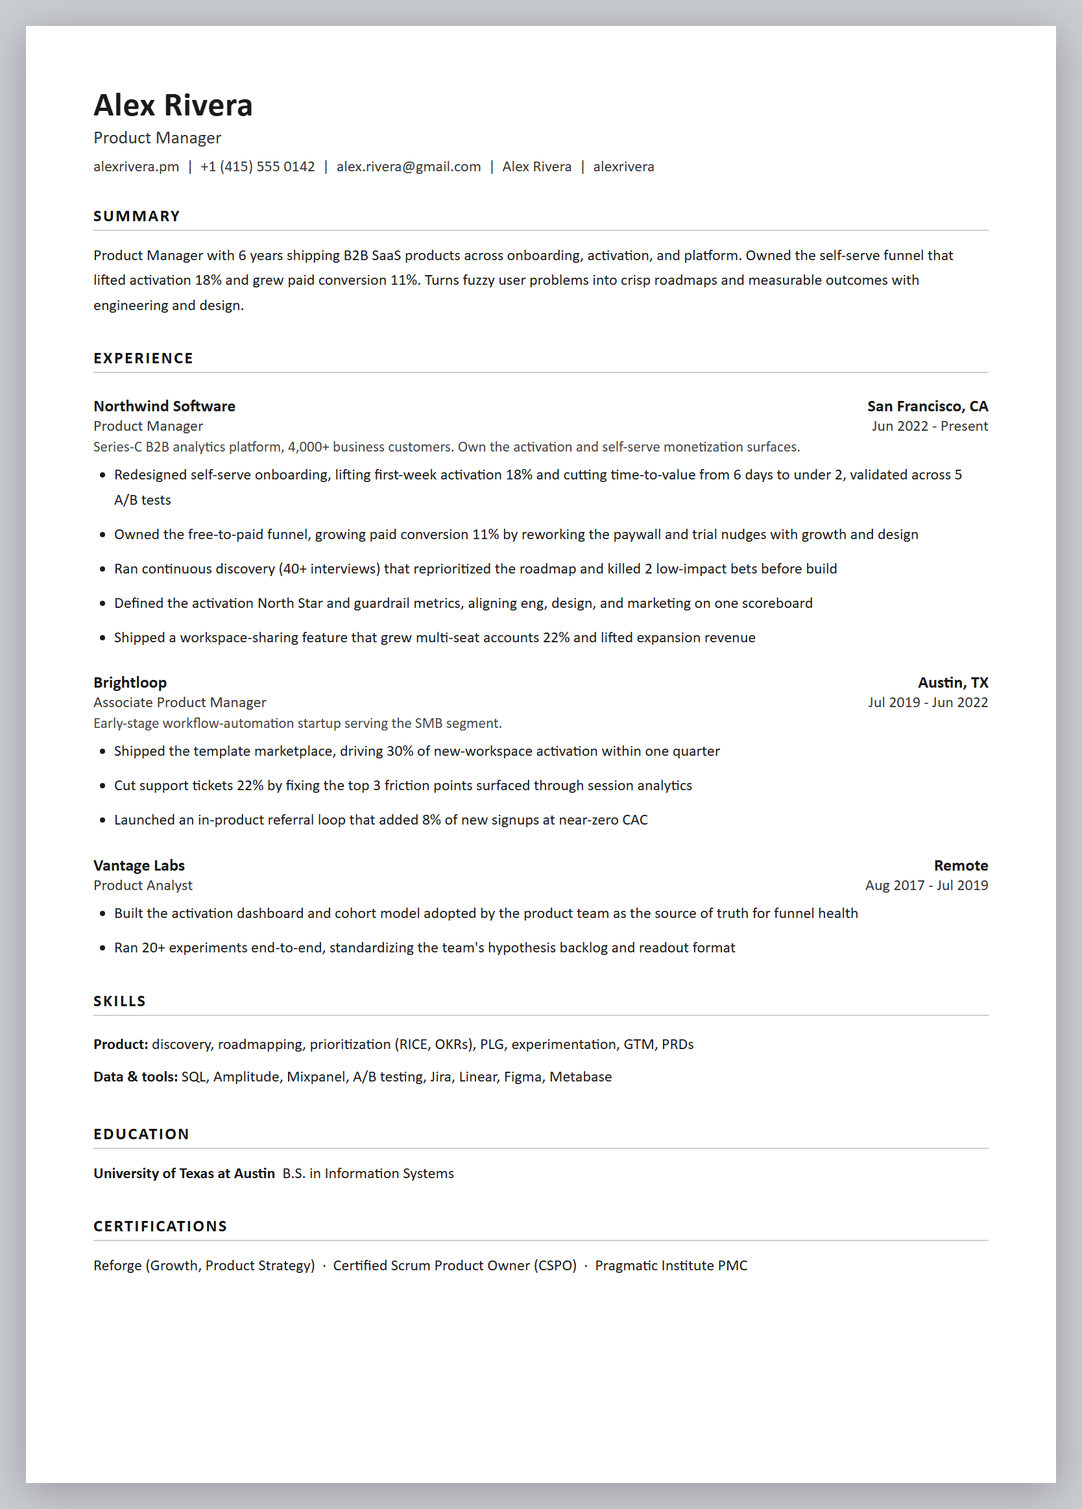
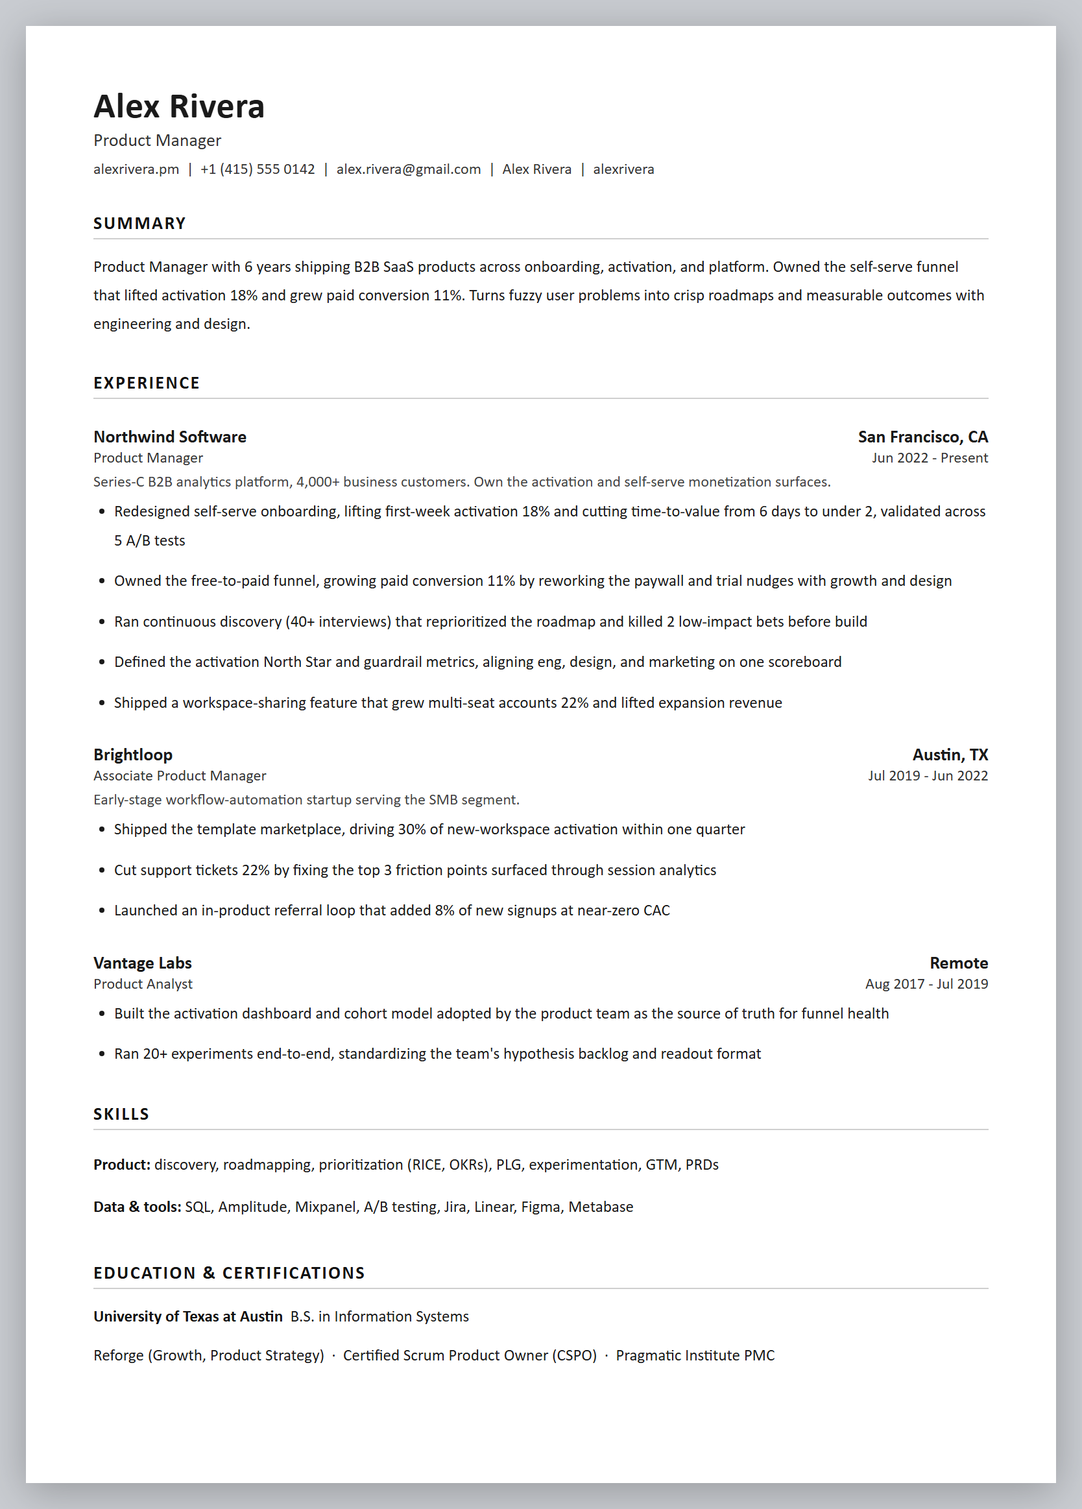
Fill all templates to full A4, add trigger phrases and MCP guide, add three ATS knowledge sources
Templates 02 to 05 now populate a full page like 01 Executive Serif.
README gains a Trigger phrases section and a Works with your MCPs section.
Adds r/EngineeringResumes, The Tech Resume Inside Out, and Tech Interview Handbook, reflected in the ATS and structure references.
Skill delivers both docx and pdf, verified with pdftotext.
Repackaged pm-resume-builder.skill. Expanded gitignore and added an examples README.

diff --git a/templates/03-growth-metrics/preview.html b/templates/03-growth-metrics/preview.html
@@ -2,18 +2,18 @@
 <style>
   body{margin:0;background:#c9ccd1;font-family:Calibri,'Segoe UI',Arial,sans-serif}
   .page{width:794px;height:1123px;margin:20px auto;background:#fff;padding:44px 52px;box-sizing:border-box;color:#1a1a1a;box-shadow:0 6px 30px rgba(0,0,0,.25);overflow:hidden}
-  .name{font-size:26px;font-weight:700}
+  .name{font-size:28px;font-weight:700}
   .title{font-size:14px;color:#333;margin-top:1px}
   .contact{font-size:12px;color:#333;margin-top:6px}
-  h2{font-size:13px;font-weight:700;text-transform:uppercase;letter-spacing:1.2px;margin:23px 0 9px;border-bottom:1px solid #cfcfcf;padding-bottom:3px;color:#111}
-  p.sum{font-size:12px;line-height:1.6;margin:7px 0}
-  .impact{font-size:13px;font-weight:700;color:#0b7a52;line-height:2.0;margin:4px 0}
-  .role{display:flex;justify-content:space-between;font-size:13px;font-weight:700;margin-top:17px}
+  h2{font-size:14px;font-weight:700;text-transform:uppercase;letter-spacing:1.2px;margin:26px 0 10px;border-bottom:1px solid #cfcfcf;padding-bottom:3px;color:#111}
+  p.sum{font-size:12.5px;line-height:1.75;margin:8px 0}
+  .impact{font-size:14px;font-weight:700;color:#0b7a52;line-height:2.5;margin:6px 0}
+  .role{display:flex;justify-content:space-between;font-size:14px;font-weight:700;margin-top:20px}
   .sub{display:flex;justify-content:space-between;font-size:12px;color:#333}
-  .ctx{font-size:11.5px;color:#444;margin:2px 0}
+  .ctx{font-size:12px;color:#444;margin:4px 0}
   ul{margin:5px 0 0;padding-left:16px}
-  li{font-size:12px;line-height:1.62;margin-bottom:7px}
-  .sk{font-size:12px;line-height:2.1}
+  li{font-size:12.5px;line-height:1.78;margin-bottom:9px}
+  .sk{font-size:12.5px;line-height:2.6}
   b{color:#111}
 </style>
 <div class="page">
@@ -56,6 +56,7 @@
   <div class="sk"><b>Growth &amp; data:</b> A/B testing, SQL, funnel &amp; cohort analysis, Amplitude, Mixpanel, activation, retention, CAC, LTV<br>
   <b>Product:</b> PLG, experimentation, roadmapping, discovery, OKRs, pricing</div>
 
-  <h2>Education</h2>
+  <h2>Education &amp; Certifications</h2>
   <p class="sum"><b>University of Texas at Austin</b>&nbsp; B.S. in Information Systems</p>
+  <p class="sum">Reforge (Growth Series, Experimentation)&nbsp; ·&nbsp; CXL Growth Marketing Minidegree&nbsp; ·&nbsp; Certified Scrum Product Owner (CSPO)</p>
 </div>

diff --git a/templates/02-modern-minimal/preview.html b/templates/02-modern-minimal/preview.html
@@ -2,17 +2,17 @@
 <style>
   body{margin:0;background:#c9ccd1;font-family:Calibri,'Segoe UI',Arial,sans-serif}
   .page{width:794px;height:1123px;margin:20px auto;background:#fff;padding:44px 52px;box-sizing:border-box;color:#1a1a1a;box-shadow:0 6px 30px rgba(0,0,0,.25);overflow:hidden}
-  .name{font-size:26px;font-weight:700;letter-spacing:.3px}
+  .name{font-size:28px;font-weight:700;letter-spacing:.3px}
   .title{font-size:14px;color:#333;margin-top:1px}
   .contact{font-size:12px;color:#333;margin-top:6px}
-  h2{font-size:13px;font-weight:700;text-transform:uppercase;letter-spacing:1.2px;margin:23px 0 9px;border-bottom:1px solid #cfcfcf;padding-bottom:3px;color:#111}
-  p.sum{font-size:12px;line-height:1.6;margin:7px 0}
-  .role{display:flex;justify-content:space-between;font-size:13px;font-weight:700;margin-top:17px}
+  h2{font-size:14px;font-weight:700;text-transform:uppercase;letter-spacing:1.2px;margin:26px 0 10px;border-bottom:1px solid #cfcfcf;padding-bottom:3px;color:#111}
+  p.sum{font-size:12.5px;line-height:1.75;margin:8px 0}
+  .role{display:flex;justify-content:space-between;font-size:14px;font-weight:700;margin-top:20px}
   .sub{display:flex;justify-content:space-between;font-size:12px;color:#333}
-  .ctx{font-size:11.5px;color:#444;margin:2px 0}
+  .ctx{font-size:12px;color:#444;margin:4px 0}
   ul{margin:5px 0 0;padding-left:16px}
-  li{font-size:12px;line-height:1.62;margin-bottom:7px}
-  .sk{font-size:12px;line-height:2.1}
+  li{font-size:12.5px;line-height:1.78;margin-bottom:9px}
+  .sk{font-size:12.5px;line-height:2.6}
   b{color:#111}
 </style>
 <div class="page">
@@ -53,9 +53,7 @@
   <div class="sk"><b>Product:</b> discovery, roadmapping, prioritization (RICE, OKRs), PLG, experimentation, GTM, PRDs<br>
   <b>Data &amp; tools:</b> SQL, Amplitude, Mixpanel, A/B testing, Jira, Linear, Figma, Metabase</div>
 
-  <h2>Education</h2>
+  <h2>Education &amp; Certifications</h2>
   <p class="sum"><b>University of Texas at Austin</b>&nbsp; B.S. in Information Systems</p>
-
-  <h2>Certifications</h2>
   <p class="sum">Reforge (Growth, Product Strategy)&nbsp; ·&nbsp; Certified Scrum Product Owner (CSPO)&nbsp; ·&nbsp; Pragmatic Institute PMC</p>
 </div>

diff --git a/templates/05-associate-onepager/preview.html b/templates/05-associate-onepager/preview.html
@@ -2,15 +2,15 @@
 <style>
   body{margin:0;background:#c9ccd1;font-family:Calibri,'Segoe UI',Arial,sans-serif}
   .page{width:794px;height:1123px;margin:20px auto;background:#fff;padding:44px 52px;box-sizing:border-box;color:#1a1a1a;box-shadow:0 6px 30px rgba(0,0,0,.25);overflow:hidden}
-  .name{font-size:25px;font-weight:700}
+  .name{font-size:28px;font-weight:700}
   .title{font-size:13.5px;color:#333;margin-top:1px}
   .contact{font-size:12px;color:#333;margin-top:6px}
-  h2{font-size:13px;font-weight:700;text-transform:uppercase;letter-spacing:1.1px;margin:23px 0 9px;border-bottom:1px solid #cfcfcf;padding-bottom:3px;color:#111}
-  p.sum{font-size:12px;line-height:1.6;margin:7px 0}
-  .role{display:flex;justify-content:space-between;font-size:12.5px;font-weight:700;margin-top:16px}
+  h2{font-size:14px;font-weight:700;text-transform:uppercase;letter-spacing:1.1px;margin:31px 0 11px;border-bottom:1px solid #cfcfcf;padding-bottom:3px;color:#111}
+  p.sum{font-size:12.5px;line-height:1.9;margin:9px 0}
+  .role{display:flex;justify-content:space-between;font-size:14px;font-weight:700;margin-top:26px}
   .sub{display:flex;justify-content:space-between;font-size:12px;color:#333}
   ul{margin:5px 0 0;padding-left:16px}
-  li{font-size:12px;line-height:1.62;margin-bottom:7px}
+  li{font-size:12.5px;line-height:1.9;margin-bottom:12px}
   b{color:#111}
 </style>
 <div class="page">
@@ -49,6 +49,12 @@
 
   <h2>Skills</h2>
   <p class="sum"><b>Product:</b> discovery, PRDs, prioritization, experimentation, roadmapping, user research&nbsp; ·&nbsp; <b>Data and tools:</b> SQL, Amplitude, Figma, Jira, Notion</p>
+
+  <h2>Leadership &amp; Community</h2>
+  <ul>
+    <li><b>Product Club, UW</b>&nbsp; led a 40 member club, ran a case-study series, and mentored 8 students into APM interviews</li>
+    <li><b>Hackathon organizer</b>&nbsp; ran a 150 person student hackathon, owning sponsorships, logistics, and judging</li>
+  </ul>
 
   <h2>Certifications</h2>
   <p class="sum">Google Project Management Certificate&nbsp; ·&nbsp; Reforge Product Foundations</p>

diff --git a/templates/04-ai-product/preview.html b/templates/04-ai-product/preview.html
@@ -2,18 +2,18 @@
 <style>
   body{margin:0;background:#c9ccd1;font-family:Calibri,'Segoe UI',Arial,sans-serif}
   .page{width:794px;height:1123px;margin:20px auto;background:#fff;padding:44px 52px;box-sizing:border-box;color:#1a1a1a;box-shadow:0 6px 30px rgba(0,0,0,.25);overflow:hidden}
-  .name{font-size:26px;font-weight:700}
+  .name{font-size:28px;font-weight:700}
   .title{font-size:14px;color:#333;margin-top:1px}
   .contact{font-size:12px;color:#333;margin-top:6px}
-  h2{font-size:13px;font-weight:700;text-transform:uppercase;letter-spacing:1.2px;margin:23px 0 9px;border-bottom:1px solid #cfcfcf;padding-bottom:3px;color:#111}
-  p.sum{font-size:12px;line-height:1.6;margin:7px 0}
-  .ai{font-size:12.5px;font-weight:700;color:#4b2ea8;line-height:1.6;margin:2px 0}
-  .role{display:flex;justify-content:space-between;font-size:13px;font-weight:700;margin-top:17px}
+  h2{font-size:14px;font-weight:700;text-transform:uppercase;letter-spacing:1.2px;margin:26px 0 10px;border-bottom:1px solid #cfcfcf;padding-bottom:3px;color:#111}
+  p.sum{font-size:12.5px;line-height:1.75;margin:8px 0}
+  .ai{font-size:13.5px;font-weight:700;color:#4b2ea8;line-height:2.1;margin:4px 0}
+  .role{display:flex;justify-content:space-between;font-size:14px;font-weight:700;margin-top:20px}
   .sub{display:flex;justify-content:space-between;font-size:12px;color:#333}
-  .ctx{font-size:11.5px;color:#444;margin:2px 0}
+  .ctx{font-size:12px;color:#444;margin:4px 0}
   ul{margin:5px 0 0;padding-left:16px}
-  li{font-size:12px;line-height:1.62;margin-bottom:7px}
-  .sk{font-size:12px;line-height:2.1}
+  li{font-size:12.5px;line-height:1.78;margin-bottom:9px}
+  .sk{font-size:12.5px;line-height:2.6}
   b{color:#111}
 </style>
 <div class="page">

diff --git a/README.md b/README.md
@@ -22,8 +22,10 @@ It reads your old CV, asks the right questions, and ships a sharp, recruiter gra
 
 - [What it does](#what-it-does)
 - [How it works](#how-it-works)
+- [Trigger phrases](#trigger-phrases)
 - [The 5 templates](#the-5-templates-all-ats-guaranteed)
 - [Install](#install)
+- [Works with your MCPs](#works-with-your-mcps)
 - [Documentation](#documentation)
 - [Knowledge sources](#knowledge-sources)
 - [CV key principles](#cv-key-principles)
@@ -70,6 +72,41 @@ The flow, in words:
 
 ---
 
+## Trigger phrases
+
+You do not need a special command. Once the skill is installed, Claude picks it up from plain language. Any of these will start it:
+
+**Build a new resume**
+- "Create my resume" or "Build my CV"
+- "Help me make a product manager resume"
+- "I need a PM resume from scratch"
+- "Turn my LinkedIn into a resume"
+
+**Improve an existing one**
+- "Optimize my resume" or "Improve my CV"
+- "Review my resume" or "Give me a resume review"
+- "What is weak in my resume?"
+- "Rewrite my bullets to show impact"
+
+**Pass the ATS**
+- "Make it ATS friendly"
+- "Will this pass an ATS?"
+- "Format my resume for applicant tracking systems"
+
+**Tailor to a role**
+- "Tailor my resume to this job description"
+- "Match my CV to this PM role"
+- "Help me apply for this job"
+
+**Other ways in**
+- "Help me get hired as a PM"
+- "Hoja de vida" or "Curriculum vitae"
+- Any mention of a job application together with resume or CV
+
+When more than one could apply, Claude asks a quick clarifying question before it starts.
+
+---
+
 ## The 5 templates (all ATS guaranteed)
 
 Every template is single column, standard font, text based, and graphics free, so it parses cleanly in Greenhouse, Workday, Lever, Ashby, iCIMS, and Taleo. "ATS guaranteed" means the exported PDF returns clean, ordered text via `pdftotext`, which the skill verifies on export.
@@ -100,6 +137,28 @@ Full walkthrough with all three methods and examples: **[docs/INSTALLATION.md](.
 
 ---
 
+## Works with your MCPs
+
+The skill works on its own with an attached file. It gets more powerful when you connect an MCP, because Claude can then read your inputs and hand back the finished files where you actually keep them, in one conversation.
+
+| If you connect | The skill can |
+|---|---|
+| **Google Drive / Docs MCP** | Read your current CV straight from Drive, then save the finished `.docx` and `.pdf` back to a folder you name, no upload or download step |
+| **Gmail MCP** | Pull a job description out of a recruiter email, then draft the application reply with the tailored resume ready to attach (it drafts, you send) |
+| **Filesystem MCP** (Claude Code, desktop) | Read the CV from a local path and write both files next to it |
+| **Notion or Confluence MCP** | Pull role details or your brag document, and drop a copy of the resume into your job search page |
+| **A web or fetch MCP** | Read a job description from a posting URL you paste, then tailor to it |
+
+How it looks in practice:
+
+> "Read my CV from Google Drive, rebuild it in the Growth and Metrics template, tailor it to the JD in this email, and save both files back to my Job Search folder."
+
+Claude reads the CV over the Drive MCP, pulls the JD over the Gmail MCP, runs the normal diagnose, ask, write, verify flow, then writes the `.docx` and `.pdf` back over the Drive MCP. No MCP is required. Anything the skill cannot reach, it simply asks you to paste or attach.
+
+> Guardrails still apply. Claude drafts emails and saves files, and it asks before it sends anything or changes anything you did not request.
+
+---
+
 ## Documentation
 
 | Doc | What is inside |
@@ -127,7 +186,9 @@ This skill was built by researching and synthesizing the best product manager re
 | [HustleBadger, Write a PM Resume](https://www.hustlebadger.com/what-do-product-teams-do/write-a-pm-resume/) | Impact not process, TAR and CAR structure, the 6 to 8 second scan |
 | Reforge, Amplitude and Mixpanel, Lenny Rachitsky, Shreyas Doshi | Growth metrics, analytics conventions, product sense framing |
 | [Harvard Career Services](https://careerservices.fas.harvard.edu/resources/create-a-strong-resume/) | Language principles, action verbs, top mistakes |
-| [The Tech Resume Inside Out](https://thetechresume.com/samples/ats-myths-busted) | ATS myths debunked, the hiring pipeline |
+| [r/EngineeringResumes](https://www.reddit.com/r/EngineeringResumes/wiki/index/) | Tech specific, community tested formatting patterns that survive real ATS screens |
+| [The Tech Resume Inside Out](https://thetechresume.com/samples/ats-myths-busted) | The hiring pipeline, ATS myths debunked, the recruiter perspective |
+| [Tech Interview Handbook](https://www.techinterviewhandbook.org/resume/) | FAANG resume optimization and ATS friendly formatting |
 | Google XYZ formula, Columbia STAR, Lever | Achievement based bullets, ATS reality |
 
 ---

diff --git a/skill/SKILL.md b/skill/SKILL.md
@@ -1,6 +1,6 @@
 ---
 name: pm-resume-builder
-description: "Use this skill whenever the user wants to create, improve, rewrite, review, tailor, or ATS-optimize a PRODUCT MANAGER resume or CV. Triggers include any mention of 'PM resume', 'product manager resume', 'product resume', 'PM CV', 'product management CV', or a request to turn product/PM experience into a resume, quantify product impact, write PM bullet points, add product metrics (activation, retention, revenue, adoption), tailor a PM resume to a job description, pick a PM resume template, or prepare a resume for an APM / PM / Senior PM / Lead PM / Group PM / Director of Product / Head of Product / CPO application. Also use for AI Product Manager, Growth PM, Platform/Technical PM, and Product Owner resumes. Do NOT use for engineering-only resumes, LinkedIn profile rewrites, portfolios, or cover letters unless the resume is the main deliverable."
+description: "Use this skill whenever the user wants to create, improve, rewrite, review, tailor, or ATS-optimize a PRODUCT MANAGER resume or CV. Triggers include any mention of 'PM resume', 'product manager resume', 'product resume', 'PM CV', 'product management CV', plain-language asks like 'create my resume', 'build my CV', 'optimize my resume', 'improve my CV', 'review my resume', 'make it ATS-friendly', 'tailor my resume to this job description', 'help me get hired', and the Spanish terms 'hoja de vida' or 'curriculum vitae', or a request to turn product/PM experience into a resume, quantify product impact, write PM bullet points, add product metrics (activation, retention, revenue, adoption), tailor a PM resume to a job description, pick a PM resume template, or prepare a resume for an APM / PM / Senior PM / Lead PM / Group PM / Director of Product / Head of Product / CPO application. Also use for AI Product Manager, Growth PM, Platform/Technical PM, and Product Owner resumes. Do NOT use for engineering-only resumes, LinkedIn profile rewrites, portfolios, or cover letters unless the resume is the main deliverable."
 ---
 
 # Product Manager Resume Builder, Recruiter-Grade, ATS-Guaranteed
@@ -27,6 +27,8 @@ This is the primary path the user expects: *take my old CV, ask me questions, sh
 
 ### Step 0, Read their current CV
 If the user attaches or points to an existing resume, **read it fully first** (PDF/DOCX/text). Extract: roles, companies, dates, scope, any numbers, education, certs. Do not start asking questions until you have read what they already have. If they have no CV, skip to Step 2 and gather from scratch.
+
+**If an MCP is connected, use it for inputs.** When the user has a Google Drive, filesystem, Gmail, Notion, or web/fetch MCP available, read the source directly instead of asking for an upload: pull the CV from Drive or a local path, read a job description from a Gmail thread or a posting URL, or pull role context from Notion. Only fall back to asking the user to paste or attach when no MCP can reach the source.
 
 ### Step 1, Diagnose (say what is weak, briefly)
 In 3-6 lines, tell them what is holding the current resume back, using this skill's standards: missing metrics, vague "responsible for" bullets, "worked cross-functionally" filler, no scope/context per role, wrong section order, over-length, weak summary. Be specific and kind. This earns trust and sets up the questions.
@@ -71,6 +73,7 @@ Deliver **both** `.docx` (to edit) and `.pdf` (to send).
 - **Verify it is text-based / ATS-parseable:** `pdftotext resume.pdf -` and confirm the name, titles, and metrics come out as real text.
 - Check page count with `pdfinfo` and that nothing truncates.
 - Run the **delivery checklist** below.
+- **If an MCP is connected, deliver where the user keeps their files.** Save both `.docx` and `.pdf` back to the Google Drive folder or local path they name, or draft a Gmail reply with the resume ready to attach. Ask before sending anything or writing outside the location they asked for.
 
 ---
 

diff --git a/docs/SOURCES.md b/docs/SOURCES.md
@@ -24,6 +24,7 @@ Every source consulted to build this skill, and where each insight is applied. T
 | [Harvard Career Services, Create a Strong Resume](https://careerservices.fas.harvard.edu/resources/create-a-strong-resume/) | Language principles (specific, active, fact based, scannable), the top 5 mistakes, action verb tables, the do and do not list |
 | [r/EngineeringResumes wiki](https://www.reddit.com/r/EngineeringResumes/wiki/index/) | Formatting mechanics: single column, date formats, "Present", no periods on bullets, digits not words, plain text URLs, ATS safe fonts |
 | [The Tech Resume Inside Out, ATS Myths Busted and Hiring Pipeline](https://thetechresume.com/samples/ats-myths-busted) | ATS is a human workflow tool and not an auto rejecting robot, the fabricated "75%" stat, PDF is fine, tailor for humans |
+| [Tech Interview Handbook, Resume Guide](https://www.techinterviewhandbook.org/resume/) | FAANG resume optimization, ATS friendly formatting rules, single column and standard section order, what top tech screens reward |
 | [Google XYZ formula](https://www.inc.com/bill-murphy-jr/google-recruiters-say-using-this-6-second-trick-doubled-their-number-of-quality-interviews.html) | "Accomplished X as measured by Y by doing Z", the basis of the PM bullet formula |
 | [Columbia University, STAR bullet points](https://www.careereducation.columbia.edu/resources/resumes-impact-creating-strong-bullet-points) | Situation, Task, Action, Result condensed into one or two lines |
 | [Lever, ATS Myths Debunked](https://www.lever.co/blog/applicant-tracking-system-myths/) | How recruiters actually use an ATS, and why you cannot game it |
@@ -37,8 +38,8 @@ Every source consulted to build this skill, and where each insight is applied. T
 | `SKILL.md` | Exponent (flow and archetypes), HustleBadger (impact not process), IGotAnOffer, Harvard |
 | `references/pm-bullet-writing.md` | Exponent, HustleBadger, IGotAnOffer, Google XYZ, Columbia STAR, Harvard verbs |
 | `references/pm-metrics-and-impact.md` | Exponent (metric to role), Reforge, Amplitude and Mixpanel, Lenny |
-| `references/pm-resume-structure.md` | IGotAnOffer, Exponent, Harvard, r/EngineeringResumes (mechanics), The Tech Resume (ATS) |
-| `references/ats-and-keywords.md` | The Tech Resume Inside Out, Exponent, the IGotAnOffer keyword bank, Lever |
+| `references/pm-resume-structure.md` | IGotAnOffer, Exponent, Harvard, r/EngineeringResumes (mechanics), The Tech Resume and Tech Interview Handbook (ATS and section order) |
+| `references/ats-and-keywords.md` | The Tech Resume Inside Out, Tech Interview Handbook (FAANG and ATS formatting), Exponent, the IGotAnOffer keyword bank, Lever |
 | `references/common-mistakes.md` | IGotAnOffer, Exponent, HustleBadger, Harvard top 5 |
 | `references/pm-templates.md` | Synthesis, plus the real example in `examples/` |
 

diff --git a/skill/references/ats-and-keywords.md b/skill/references/ats-and-keywords.md
@@ -1,6 +1,6 @@
 # ATS & PM Keyword Bank
 
-**Sources:** The Tech Resume Inside Out (ATS myths), Exponent, IGotAnOffer ("40 PM resume keywords"), Lever.
+**Sources:** The Tech Resume Inside Out (ATS myths and the hiring pipeline), Tech Interview Handbook (FAANG and ATS friendly formatting), r/EngineeringResumes (community tested mechanics), Exponent, IGotAnOffer ("40 PM resume keywords"), Lever.
 
 ---
 
@@ -13,6 +13,16 @@ An ATS is a **database + workflow tool** for recruiters, not an AI gatekeeper. M
 3. **Mirror the JD's language**, use the exact terms the job description uses *when you genuinely have that experience*.
 
 **Myths to ignore:** "PDFs break ATS" (false for all modern ATS), "you need X% keyword density" (false), "white-text keywords" (never, it gets flagged), "75% auto-rejected by bots" (a fabricated stat from vendors). Standard, clean formatting wins.
+
+**FAANG and big-tech formatting rules** (Tech Interview Handbook, r/EngineeringResumes), which the templates already follow:
+
+- One column only. Two-column layouts scramble in the parser and bury the right-hand column.
+- Standard section headings a parser expects: Summary, Experience, Skills, Education. No clever renames.
+- Reverse chronological order, most recent role first, with clear "Present" on the current role.
+- Real dates on the right (Mon YYYY), consistent format across every role.
+- No text inside headers, footers, images, or text boxes, parsers routinely drop those regions.
+- Standard fonts, plain bullet characters, digits not spelled-out numbers, plain-text URLs.
+- Export a text-based PDF and confirm it with `pdftotext`, if the text comes back clean and ordered, the ATS reads it the same way.
 
 ---
 

diff --git a/skill/references/pm-resume-structure.md b/skill/references/pm-resume-structure.md
@@ -1,6 +1,6 @@
 # PM Resume Structure & Format
 
-**Sources:** Harvard Career Services, IGotAnOffer, Exponent, HustleBadger, The Tech Resume Inside Out (ATS), r/EngineeringResumes (formatting mechanics).
+**Sources:** Harvard Career Services, IGotAnOffer, Exponent, HustleBadger, The Tech Resume Inside Out (ATS), Tech Interview Handbook (FAANG section order and formatting), r/EngineeringResumes (formatting mechanics).
 
 PMs are screened on scope and outcomes, so the structure differs from an engineering resume in three ways: **keep a strong summary, put Experience first (not Skills), and lead each role with a company-context line.**
 

diff --git a/examples/README.md b/examples/README.md
@@ -1,0 +1,9 @@
+# Examples
+
+Real resumes that show the skill's output, not filler.
+
+| File | What it is |
+|---|---|
+| [`Shehab-Beram-Senior-PM-Resume.pdf`](./Shehab-Beram-Senior-PM-Resume.pdf) | A real senior product manager resume. This is the resume that template **01 Executive Serif** is modeled on: a strong summary, a company context line per role, outcome bullets with the metric pushed to the front, and a clean single column that parses in any ATS. |
+
+Use it as a reference for the bar the skill aims for: every bullet is an outcome, every role opens with scope and scale, and nothing on the page is filler.
